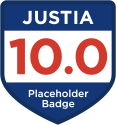
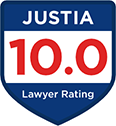
fix: justia badge

diff --git a/dist/jld-newsletter.html b/dist/jld-newsletter.html
@@ -213,7 +213,7 @@
             </tr>
             <tr>
               <td class="justia01" style="padding:0 30px 35px" align="left">
-                <a href="https://onward.justia.com/2019/09/26/collaborative-law-firm-part-vi-the-fax-is-dead-long-live-the-fax/?utm_medium=email&utm_campaign=2019-10&utm_source=directory-newsletter&utm_content=image-onward-post-1" target="_blank" style="color:#00b3e3;text-decoration:none"><img src="https://justatic.com/v/2/emails/images/newsletters/2019/10/featured-news-01.jpg" alt="Collaborative Law Firm Part VI: The Fax is Dead Long Live the Fax" border="0" style="display:block;max-width:100%" width="540"/></a>
+                <a href="https://onward.justia.com/2019/09/26/collaborative-law-firm-part-vi-the-fax-is-dead-long-live-the-fax/?utm_medium=email&utm_campaign=2019-10&utm_source=directory-newsletter&utm_content=image-onward-post-1" target="_blank" style="color:#00b3e3;text-decoration:none"><img src="https://justatic.com/v/3/emails/images/newsletters/2019/10/featured-news-01.jpg" alt="Collaborative Law Firm Part VI: The Fax is Dead Long Live the Fax" border="0" style="display:block;max-width:100%" width="540"/></a>
               </td>
             </tr>
             <tr>
@@ -234,7 +234,7 @@
           <table border="0" cellpadding="0" cellspacing="0" align="center" width="100%" style="max-width:600px;margin:0 auto;border-bottom:1px solid #efefef" bgcolor="#f4f4f4">
             <tr>
               <td style="padding:0" align="center">
-                <a href="https://unicourt.com/pricing/justia?utm_medium=affiliate&utm_campaign=newsletter&utm_source=justia" target="_blank" style="color:#00b3e3;text-decoration:none"><img src="https://justatic.com/v/2/emails/images/newsletters/2019/10/unicort-pricing.png" alt border="0" style="display:block;max-width:100%" width="600"/></a>
+                <a href="https://unicourt.com/pricing/justia?utm_medium=affiliate&utm_campaign=newsletter&utm_source=justia" target="_blank" style="color:#00b3e3;text-decoration:none"><img src="https://justatic.com/v/3/emails/images/newsletters/2019/10/unicort-pricing.png" alt border="0" style="display:block;max-width:100%" width="600"/></a>
               </td>
             </tr>
           </table>
@@ -257,7 +257,7 @@
                 <table border="0" cellpadding="0" cellspacing="0" width="100%">
                   <tr>
                     <td class="justia03" style="padding:0 30px 30px 20px" width="230" align="left">
-                      <a href="https://www.elliottlawgroup.com" target="_blank" style="color:#00b3e3;text-decoration:none"><img src="https://justatic.com/v/2/emails/images/newsletters/2019/10/featured-site-01-thumb.png" alt="Elliott Law Group PLLC" border="0" style="display:block;max-width:100%" width="230"/></a>
+                      <a href="https://www.elliottlawgroup.com" target="_blank" style="color:#00b3e3;text-decoration:none"><img src="https://justatic.com/v/3/emails/images/newsletters/2019/10/featured-site-01-thumb.png" alt="Elliott Law Group PLLC" border="0" style="display:block;max-width:100%" width="230"/></a>
                     </td>
                     <td class="justia04 justia06 justia09" style="padding:0 0 50px" align="left" valign="middle">
                       <p class="justia07" style="margin:0 0 10px;font:22px/1.15 Arial,sans-serif"><b>Elliott Law Group, PLLC</b></p>
@@ -269,7 +269,7 @@
                 <table border="0" cellpadding="0" cellspacing="0" width="100%">
                   <tr>
                     <td class="justia03" style="padding:0 30px 30px 20px" width="230" align="left">
-                      <a href="https://www.attorneymunley.com" target="_blank" style="color:#00b3e3;text-decoration:none"><img src="https://justatic.com/v/2/emails/images/newsletters/2019/10/featured-site-02-thumb.png" alt="Robert J. Munley P.C." border="0" style="display:block;max-width:100%" width="230"/></a>
+                      <a href="https://www.attorneymunley.com" target="_blank" style="color:#00b3e3;text-decoration:none"><img src="https://justatic.com/v/3/emails/images/newsletters/2019/10/featured-site-02-thumb.png" alt="Robert J. Munley P.C." border="0" style="display:block;max-width:100%" width="230"/></a>
                     </td>
                     <td class="justia04 justia06 justia09" style="padding:0 0 50px" align="left" valign="middle">
                       <p class="justia07" style="margin:0 0 10px;font:22px/1.15 Arial,sans-serif"><b>Robert J. Munley, P.C.</b></p>
@@ -281,7 +281,7 @@
                 <table border="0" cellpadding="0" cellspacing="0" width="100%">
                   <tr>
                     <td class="justia03" style="padding:0 30px 30px 20px" width="230" align="left">
-                      <a href="https://www.jmburtonlaw.com" target="_blank" style="color:#00b3e3;text-decoration:none"><img src="https://justatic.com/v/2/emails/images/newsletters/2019/10/featured-site-03-thumb.png" alt="Burton Law Firm PLLC" border="0" style="display:block;max-width:100%" width="230"/></a>
+                      <a href="https://www.jmburtonlaw.com" target="_blank" style="color:#00b3e3;text-decoration:none"><img src="https://justatic.com/v/3/emails/images/newsletters/2019/10/featured-site-03-thumb.png" alt="Burton Law Firm PLLC" border="0" style="display:block;max-width:100%" width="230"/></a>
                     </td>
                     <td class="justia04 justia06 justia09" style="padding:0 0 50px" align="left" valign="middle">
                       <p class="justia07" style="margin:0 0 10px;font:22px/1.15 Arial,sans-serif"><b>Burton Law Firm, PLLC</b></p>
@@ -293,7 +293,7 @@
                 <table border="0" cellpadding="0" cellspacing="0" width="100%">
                   <tr>
                     <td class="justia03" style="padding:0 30px 0 20px" width="230" align="left">
-                      <a href="https://www.azlegalfirm.com" target="_blank" style="color:#00b3e3;text-decoration:none"><img src="https://justatic.com/v/2/emails/images/newsletters/2019/10/featured-site-04-thumb.png" alt="Saavedra Law Firm PLC" border="0" style="display:block;max-width:100%" width="230"/></a>
+                      <a href="https://www.azlegalfirm.com" target="_blank" style="color:#00b3e3;text-decoration:none"><img src="https://justatic.com/v/3/emails/images/newsletters/2019/10/featured-site-04-thumb.png" alt="Saavedra Law Firm PLC" border="0" style="display:block;max-width:100%" width="230"/></a>
                     </td>
                     <td class="justia04 justia06 justia10" style="padding:0 0 20px" align="left" valign="middle">
                       <p class="justia07" style="margin:0 0 10px;font:22px/1.15 Arial,sans-serif"><b>Saavedra Law Firm, PLC</b></p>
@@ -308,7 +308,7 @@
           <table border="0" cellpadding="0" cellspacing="0" align="center" width="100%" style="max-width:600px;margin:0 auto;border-bottom:1px solid #efefef" bgcolor="#000">
             <tr>
               <td style="padding:0" align="center">
-                <a href="https://www.justia.com/marketing/lawyer-directory/?utm_medium=email&utm_campaign=2019-10&utm_source=directory-newsletter&utm_content=banner-premium-memberships-v24" target="_blank" style="color:#00b3e3;text-decoration:none"><img src="https://justatic.com/v/2/emails/images/newsletters/2019/10/premium-profile.gif" alt="Don’t Get Tricked Just Treat Yourself to Premium Placements" border="0" style="display:block;max-width:100%" width="600"/></a>
+                <a href="https://www.justia.com/marketing/lawyer-directory/?utm_medium=email&utm_campaign=2019-10&utm_source=directory-newsletter&utm_content=banner-premium-memberships-v24" target="_blank" style="color:#00b3e3;text-decoration:none"><img src="https://justatic.com/v/3/emails/images/newsletters/2019/10/premium-profile.gif" alt="Don’t Get Tricked Just Treat Yourself to Premium Placements" border="0" style="display:block;max-width:100%" width="600"/></a>
               </td>
             </tr>
             <tr>
@@ -470,7 +470,7 @@
                 <table border="0" cellpadding="0" cellspacing="0" align="center" width="100%">
                   <tr>
                     <td class="justia15" style="border-bottom:1px solid rgba(6,53,122,.1);padding:0 0 20px" width="70" align="left">
-                      <a href="https://lawyers.justia.com/lawyer/1411886?utm_medium=email&utm_source=directory-newsletter&utm_campaign=2019-10&utm_content=image-lawyer-ask-a-lawyer-leaderboard-1" target="_blank" style="color:#00b3e3;text-decoration:none"><img src="https://justatic.com/v/2/emails/images/newsletters/2019/10/leaderboard-photo-01.jpg" alt="Ken Shigley" border="0" style="display:block;max-width:100%" width="70"/></a>
+                      <a href="https://lawyers.justia.com/lawyer/1411886?utm_medium=email&utm_source=directory-newsletter&utm_campaign=2019-10&utm_content=image-lawyer-ask-a-lawyer-leaderboard-1" target="_blank" style="color:#00b3e3;text-decoration:none"><img src="https://justatic.com/v/3/emails/images/newsletters/2019/10/leaderboard-photo-01.jpg" alt="Ken Shigley" border="0" style="display:block;max-width:100%" width="70"/></a>
                     </td>
                     <td class="justia01" style="border-bottom:1px solid rgba(6,53,122,.1);padding:0 40px 20px" align="left">
                       <p class="justia07" style="margin:0 0 7px;font:22px/22px Arial,sans-serif"><a href="https://answers.justia.com/lawyer/1411886/questions/answered?utm_medium=email&utm_source=directory-newsletter&utm_campaign=2019-10&utm_content=name-lawyer-ask-a-lawyer-leaderboard-1" target="_blank" style="text-decoration:none;color:#000">Ken Shigley</a></p>
@@ -480,7 +480,7 @@
                   </tr>
                   <tr>
                     <td class="justia15" style="padding:20px 0;border-bottom:1px solid rgba(6,53,122,.1)" width="70" align="left">
-                      <a href="https://lawyers.justia.com/lawyer/1560557?utm_medium=email&utm_source=directory-newsletter&utm_campaign=2019-10&utm_content=image-lawyer-ask-a-lawyer-leaderboard-2" target="_blank" style="color:#00b3e3;text-decoration:none"><img src="https://justatic.com/v/2/emails/images/newsletters/2019/10/leaderboard-photo-02.jpg" alt="Peter A. Michael" border="0" style="display:block;max-width:100%" width="70"/></a>
+                      <a href="https://lawyers.justia.com/lawyer/1560557?utm_medium=email&utm_source=directory-newsletter&utm_campaign=2019-10&utm_content=image-lawyer-ask-a-lawyer-leaderboard-2" target="_blank" style="color:#00b3e3;text-decoration:none"><img src="https://justatic.com/v/3/emails/images/newsletters/2019/10/leaderboard-photo-02.jpg" alt="Peter A. Michael" border="0" style="display:block;max-width:100%" width="70"/></a>
                     </td>
                     <td class="justia01" style="padding:20px 40px;border-bottom:1px solid rgba(6,53,122,.1)" align="left">
                       <p class="justia07" style="margin:0 0 7px;font:22px/22px Arial,sans-serif"><a href="https://answers.justia.com/lawyer/1560557/questions/answered?utm_medium=email&utm_source=directory-newsletter&utm_campaign=2019-10&utm_content=name-lawyer-ask-a-lawyer-leaderboard-2" target="_blank" style="text-decoration:none;color:#000">Peter A. Michael</a></p>
@@ -490,7 +490,7 @@
                   </tr>
                   <tr>
                     <td class="justia15" style="padding:20px 0;border-bottom:1px solid rgba(6,53,122,.1)" width="70" align="left">
-                      <a href="https://lawyers.justia.com/lawyer/1586011?utm_medium=email&utm_source=directory-newsletter&utm_campaign=2019-10&utm_content=image-lawyer-ask-a-lawyer-leaderboard-3" target="_blank" style="color:#00b3e3;text-decoration:none"><img src="https://justatic.com/v/2/emails/images/newsletters/2019/10/leaderboard-photo-03.jpg" alt="Anitra Walker" border="0" style="display:block;max-width:100%" width="70"/></a>
+                      <a href="https://lawyers.justia.com/lawyer/1586011?utm_medium=email&utm_source=directory-newsletter&utm_campaign=2019-10&utm_content=image-lawyer-ask-a-lawyer-leaderboard-3" target="_blank" style="color:#00b3e3;text-decoration:none"><img src="https://justatic.com/v/3/emails/images/newsletters/2019/10/leaderboard-photo-03.jpg" alt="Anitra Walker" border="0" style="display:block;max-width:100%" width="70"/></a>
                     </td>
                     <td class="justia01" style="padding:20px 40px;border-bottom:1px solid rgba(6,53,122,.1)" align="left">
                       <p class="justia07" style="margin:0 0 7px;font:22px/22px Arial,sans-serif"><a href="https://answers.justia.com/lawyer/1586011/questions/answered?utm_medium=email&utm_source=directory-newsletter&utm_campaign=2019-10&utm_content=name-lawyer-ask-a-lawyer-leaderboard-3" target="_blank" style="text-decoration:none;color:#000">Anitra Walker</a></p>
@@ -500,7 +500,7 @@
                   </tr>
                   <tr>
                     <td class="justia15" style="padding:20px 0;border-bottom:1px solid rgba(6,53,122,.1)" width="70" align="left">
-                      <a href="https://lawyers.justia.com/lawyer/1561140?utm_medium=email&utm_source=directory-newsletter&utm_campaign=2019-10&utm_content=image-lawyer-ask-a-lawyer-leaderboard-4" target="_blank" style="color:#00b3e3;text-decoration:none"><img src="https://justatic.com/v/2/emails/images/newsletters/2019/10/leaderboard-photo-04.jpg" alt="Brian Boeheim" border="0" style="display:block;max-width:100%" width="70"/></a>
+                      <a href="https://lawyers.justia.com/lawyer/1561140?utm_medium=email&utm_source=directory-newsletter&utm_campaign=2019-10&utm_content=image-lawyer-ask-a-lawyer-leaderboard-4" target="_blank" style="color:#00b3e3;text-decoration:none"><img src="https://justatic.com/v/3/emails/images/newsletters/2019/10/leaderboard-photo-04.jpg" alt="Brian Boeheim" border="0" style="display:block;max-width:100%" width="70"/></a>
                     </td>
                     <td class="justia01" style="padding:20px 40px;border-bottom:1px solid rgba(6,53,122,.1)" align="left">
                       <p class="justia07" style="margin:0 0 7px;font:22px/22px Arial,sans-serif"><a href="https://answers.justia.com/lawyer/1561140/questions/answered?utm_medium=email&utm_source=directory-newsletter&utm_campaign=2019-10&utm_content=name-lawyer-ask-a-lawyer-leaderboard-4" target="_blank" style="text-decoration:none;color:#000">Brian Boeheim</a></p>
@@ -510,7 +510,7 @@
                   </tr>
                   <tr>
                     <td class="justia15" style="padding:20px 0;border-bottom:1px solid rgba(6,53,122,.1)" width="70" align="left">
-                      <a href="https://lawyers.justia.com/lawyer/94544?utm_medium=email&utm_source=directory-newsletter&utm_campaign=2019-10&utm_content=image-lawyer-ask-a-lawyer-leaderboard-5" target="_blank" style="color:#00b3e3;text-decoration:none"><img src="https://justatic.com/v/2/emails/images/newsletters/2019/10/leaderboard-photo-05.jpg" alt="Robert John Liskey" border="0" style="display:block;max-width:100%" width="70"/></a>
+                      <a href="https://lawyers.justia.com/lawyer/94544?utm_medium=email&utm_source=directory-newsletter&utm_campaign=2019-10&utm_content=image-lawyer-ask-a-lawyer-leaderboard-5" target="_blank" style="color:#00b3e3;text-decoration:none"><img src="https://justatic.com/v/3/emails/images/newsletters/2019/10/leaderboard-photo-05.jpg" alt="Robert John Liskey" border="0" style="display:block;max-width:100%" width="70"/></a>
                     </td>
                     <td class="justia01" style="padding:20px 40px;border-bottom:1px solid rgba(6,53,122,.1)" align="left">
                       <p class="justia07" style="margin:0 0 7px;font:22px/22px Arial,sans-serif"><a href="https://answers.justia.com/lawyer/94544/questions/answered?utm_medium=email&utm_source=directory-newsletter&utm_campaign=2019-10&utm_content=name-lawyer-ask-a-lawyer-leaderboard-5" target="_blank" style="text-decoration:none;color:#000">Robert John Liskey</a></p>
@@ -644,9 +644,9 @@
                 <table border="0" cellpadding="0" cellspacing="0" align="center" width="292" class="justia15" style="border-bottom:1px solid #f4f4f4;margin:0 auto">
                   <tr>
                     <td style="padding:0 10px 15px 0" width="50%" align="left">
-                      <a href="https://lawyers.justia.com/lawyer/1482916?utm_medium=email&utm_source=directory-newsletter&utm_campaign=2019-10&utm_content=image-justia-lawyer-rating-and-reviews-featured-1" target="_blank" style="text-decoration:none;color:#000"><img src="https://justatic.com/v/2/emails/images/newsletters/2019/10/lawyer-photo-01.jpg" alt="Jonathan Rosenfeld" border="0" style="display:block;max-width:100%" width="125"/></a>
+                      <a href="https://lawyers.justia.com/lawyer/1482916?utm_medium=email&utm_source=directory-newsletter&utm_campaign=2019-10&utm_content=image-justia-lawyer-rating-and-reviews-featured-1" target="_blank" style="text-decoration:none;color:#000"><img src="https://justatic.com/v/3/emails/images/newsletters/2019/10/lawyer-photo-01.jpg" alt="Jonathan Rosenfeld" border="0" style="display:block;max-width:100%" width="125"/></a>
                     </td>
-                    <td style="padding:0 0 15px 10px" width="50%" align="right"><img src="https://justatic.com/v/2/emails/images/newsletters/2019/10/justia-badge.png" alt="Justia Badge" border="0" style="display:block;max-width:100%" /></td>
+                    <td style="padding:0 0 15px 10px" width="50%" align="right"><img src="https://justatic.com/v/3/emails/images/newsletters/2019/10/justia-badge.png" alt="Justia Badge" border="0" style="display:block;max-width:100%" /></td>
                   </tr>
                 </table>
                 <p style="margin:12px 0 6px;font:20px/1.1 Arial,sans-serif"><a href="https://lawyers.justia.com/lawyer/1482916/lawyer-reviews?utm_medium=email&utm_source=directory-newsletter&utm_campaign=2019-10&utm_content=name-justia-lawyer-rating-and-reviews-featured-1" target="_blank" style="text-decoration:none;color:#000">Jonathan Rosenfeld</a></p>
@@ -734,13 +734,13 @@
                 <table border="0" cellpadding="0" cellspacing="0" align="center" width="100%">
                   <tr>
                     <td width="250" style="padding:0 40px 0 0" class="justia04 justia12" valign="top" align="left">
-                      <img src="https://justatic.com/v/2/emails/images/newsletters/2019/10/inside-justia-01.jpg" alt="inside-justia-01.jpg" border="0" style="display:block;max-width:100%" width="250" />
+                      <img src="https://justatic.com/v/3/emails/images/newsletters/2019/10/inside-justia-01.jpg" alt="inside-justia-01.jpg" border="0" style="display:block;max-width:100%" width="250" />
                       <h3 style="font:700 22px/1.1 Arial,sans-serif;margin:15px 0 10px;color:#06357a">Meet Our Team</h3>
                       <p style="margin:0 0 15px;font:18px/1.3 Arial,sans-serif"><strong>Fall Fanatics</strong></p>
                       <p style="font:16px/1.5 Arial,sans-serif;margin:0">It's that time of year again! Hockey season has begun and we'll be rooting for the San Jose Sharks to win the cup. It’s bound to happen eventually, right?!</p>
                     </td>
                     <td width="250" style="padding:0" class="justia04 justia12-horizontal-sides justia14" valign="top" align="left">
-                      <img src="https://justatic.com/v/2/emails/images/newsletters/2019/10/inside-justia-02.jpg" alt="inside-justia-02.jpg" border="0" style="display:block;max-width:100%" width="250" />
+                      <img src="https://justatic.com/v/3/emails/images/newsletters/2019/10/inside-justia-02.jpg" alt="inside-justia-02.jpg" border="0" style="display:block;max-width:100%" width="250" />
                       <h3 style="font:700 22px/1.1 Arial,sans-serif;margin:15px 0 10px;color:#06357a">A Pug’s Tale</h3>
                       <p style="margin:0 0 15px;font:18px/1.3 Arial,sans-serif"><strong>Rio on KTVU</strong></p>
                       <p style="font:16px/1.5 Arial,sans-serif;margin:0">Rio made it on KTVU 2 News when his peeps were in line at the Apple store for the new iPhone! The Hug Pugs are super excited to have their pictures taken with the new Pet Portrait mode ;)</p>
@@ -768,7 +768,7 @@
             </tr>
             <tr>
               <td class="justia01" style="padding:0 30px 50px" align="center">
-                <a href="https://searchengineland.com/mobile-desktop-search-traffic-split-may-have-stabilized-at-roughly-60-40-317091" target="_blank" style="color:#00b3e3;text-decoration:none"><img src="https://justatic.com/v/2/emails/images/newsletters/2019/10/internet-stats-01.png" alt="Share of Online Searches in 2019 (Mobile vs. Desktop)" border="0" style="display:block;max-width:100%" width="400"/></a>
+                <a href="https://searchengineland.com/mobile-desktop-search-traffic-split-may-have-stabilized-at-roughly-60-40-317091" target="_blank" style="color:#00b3e3;text-decoration:none"><img src="https://justatic.com/v/3/emails/images/newsletters/2019/10/internet-stats-01.png" alt="Share of Online Searches in 2019 (Mobile vs. Desktop)" border="0" style="display:block;max-width:100%" width="400"/></a>
               </td>
             </tr>
             <tr>
@@ -780,13 +780,13 @@
           </table>
           <table border="0" cellpadding="0" cellspacing="0" align="center" width="100%" style="max-width:600px;margin:0 auto;border-bottom:1px solid #efefef" bgcolor="#f4f4f4">
             <tr>
-              <td background="https://justatic.com/v/2/emails/images/newsletters/2019/10/boo-tiful-website.png" style="background:#001d4b url(https://justatic.com/v/2/emails/images/newsletters/2019/10/boo-tiful-website.png);background-repeat:no-repeat;background-size:100% auto" bgcolor="#001d4b" width="600" align="center" valign="top">
-                <!--[if gte mso 9]><v:rect xmlns:v="urn:schemas-microsoft-com:vml" fill="true" stroke="false" style="width:600px;border:0;outline:0;"><v:fill type="tile" src="https://justatic.com/v/2/emails/images/newsletters/2019/10/boo-tiful-website.png" color="#001d4b" /><v:textbox style="mso-fit-shape-to-text:true" inset="0,0,0,0"><![endif]-->
+              <td background="https://justatic.com/v/3/emails/images/newsletters/2019/10/boo-tiful-website.png" style="background:#001d4b url(https://justatic.com/v/3/emails/images/newsletters/2019/10/boo-tiful-website.png);background-repeat:no-repeat;background-size:100% auto" bgcolor="#001d4b" width="600" align="center" valign="top">
+                <!--[if gte mso 9]><v:rect xmlns:v="urn:schemas-microsoft-com:vml" fill="true" stroke="false" style="width:600px;border:0;outline:0;"><v:fill type="tile" src="https://justatic.com/v/3/emails/images/newsletters/2019/10/boo-tiful-website.png" color="#001d4b" /><v:textbox style="mso-fit-shape-to-text:true" inset="0,0,0,0"><![endif]-->
                 <div>
                   <table border="0" cellpadding="0" cellspacing="0" align="center" width="100%">
                     <tr>
                       <td style="padding:0" align="center">
-                        <a href="https://www.justia.com/marketing/law-firm-websites/?utm_medium=email&utm_campaign=2019-10&utm_source=directory-newsletter&utm_content=banner-website-marketing-generic-v22" target="_blank" style="color:#00b3e3;text-decoration:none"><img src="https://justatic.com/v/2/emails/images/newsletters/2019/10/boo-tiful-ghost.gif" alt="Don’t Be Scared To Get a New Boo-tiful Website" border="0" style="display:block;max-width:100%" width="600"/></a>
+                        <a href="https://www.justia.com/marketing/law-firm-websites/?utm_medium=email&utm_campaign=2019-10&utm_source=directory-newsletter&utm_content=banner-website-marketing-generic-v22" target="_blank" style="color:#00b3e3;text-decoration:none"><img src="https://justatic.com/v/3/emails/images/newsletters/2019/10/boo-tiful-ghost.gif" alt="Don’t Be Scared To Get a New Boo-tiful Website" border="0" style="display:block;max-width:100%" width="600"/></a>
                       </td>
                     </tr>
                     <tr>

diff --git a/dist/client-newsletter.html b/dist/client-newsletter.html
@@ -187,7 +187,7 @@
             </tr>
             <tr>
               <td class="justia01" style="padding:0 30px 35px" align="left">
-                <a href="https://onward.justia.com/2019/09/26/collaborative-law-firm-part-vi-the-fax-is-dead-long-live-the-fax/?utm_medium=email&utm_campaign=2019-10&utm_source=client-newsletter&utm_content=image-onward-post-1" target="_blank" style="color:#00b3e3;text-decoration:none"><img src="https://justatic.com/v/2/emails/images/newsletters/2019/10/featured-news-01.jpg" alt="Collaborative Law Firm Part VI: The Fax is Dead Long Live the Fax" border="0" style="display:block;max-width:100%" width="540"/></a>
+                <a href="https://onward.justia.com/2019/09/26/collaborative-law-firm-part-vi-the-fax-is-dead-long-live-the-fax/?utm_medium=email&utm_campaign=2019-10&utm_source=client-newsletter&utm_content=image-onward-post-1" target="_blank" style="color:#00b3e3;text-decoration:none"><img src="https://justatic.com/v/3/emails/images/newsletters/2019/10/featured-news-01.jpg" alt="Collaborative Law Firm Part VI: The Fax is Dead Long Live the Fax" border="0" style="display:block;max-width:100%" width="540"/></a>
               </td>
             </tr>
             <tr>
@@ -301,7 +301,7 @@
             </tr>
             <tr>
               <td class="justia01" style="padding:0 30px 50px" align="center">
-                <a href="https://www.elliottlawgroup.com" target="_blank" style="color:#00b3e3;text-decoration:none"><img src="https://justatic.com/v/2/emails/images/newsletters/2019/10/featured-site-01.jpg" alt="Elliott Law Group PLLC" border="0" style="display:block;max-width:100%" width="540"/></a>
+                <a href="https://www.elliottlawgroup.com" target="_blank" style="color:#00b3e3;text-decoration:none"><img src="https://justatic.com/v/3/emails/images/newsletters/2019/10/featured-site-01.jpg" alt="Elliott Law Group PLLC" border="0" style="display:block;max-width:100%" width="540"/></a>
               </td>
             </tr>
           </table>
@@ -369,7 +369,7 @@
             </tr>
             <tr>
               <td class="justia01" style="padding:0 30px 50px" align="center">
-                <a href="https://searchengineland.com/mobile-desktop-search-traffic-split-may-have-stabilized-at-roughly-60-40-317091" target="_blank" style="color:#00b3e3;text-decoration:none"><img src="https://justatic.com/v/2/emails/images/newsletters/2019/10/internet-stats-01.png" alt="Share of Online Searches in 2019 (Mobile vs. Desktop)" border="0" style="display:block;max-width:100%" width="400"/></a>
+                <a href="https://searchengineland.com/mobile-desktop-search-traffic-split-may-have-stabilized-at-roughly-60-40-317091" target="_blank" style="color:#00b3e3;text-decoration:none"><img src="https://justatic.com/v/3/emails/images/newsletters/2019/10/internet-stats-01.png" alt="Share of Online Searches in 2019 (Mobile vs. Desktop)" border="0" style="display:block;max-width:100%" width="400"/></a>
               </td>
             </tr>
             <tr>
@@ -395,13 +395,13 @@
                 <table border="0" cellpadding="0" cellspacing="0" align="center" width="100%">
                   <tr>
                     <td width="250" style="padding:0 40px 0 0" class="justia04 justia09" valign="top" align="left">
-                      <a href="https://www.foxnews.com/us/jeffrey-epstein-pedophiles-prison-hell" target="_blank" style="color:#00b3e3;text-decoration:none"><img src="https://justatic.com/v/2/emails/images/newsletters/2019/10/clients-news-logo-01.png" alt="clients-news-logo-01.png" border="0" style="display:block;max-width:100%" width="250"/></a>
+                      <a href="https://www.foxnews.com/us/jeffrey-epstein-pedophiles-prison-hell" target="_blank" style="color:#00b3e3;text-decoration:none"><img src="https://justatic.com/v/3/emails/images/newsletters/2019/10/clients-news-logo-01.png" alt="clients-news-logo-01.png" border="0" style="display:block;max-width:100%" width="250"/></a>
                       <p style="font:16px/1.5 Arial,sans-serif;margin:25px 0 0">
                         <strong>Zachary Margulis-Ohnuma</strong> was quoted by Fox News regarding Jeffrey Epstein's death<br /><b><a href="https://www.foxnews.com/us/jeffrey-epstein-pedophiles-prison-hell" target="_blank" style="text-decoration:none;color:#000">Read More ›</a></b>
                       </p>
                     </td>
                     <td width="250" style="padding:0" class="justia04 justia09-horizontal-sides justia11" valign="top" align="left">
-                      <a href="https://www.foxbusiness.com/features/what-does-felicity-huffmans-sentencing-mean-for-other-parents-accused" target="_blank" style="color:#00b3e3;text-decoration:none"><img src="https://justatic.com/v/2/emails/images/newsletters/2019/10/clients-news-logo-02.png" alt="clients-news-logo-02.png" border="0" style="display:block;max-width:100%" width="250"/></a>
+                      <a href="https://www.foxbusiness.com/features/what-does-felicity-huffmans-sentencing-mean-for-other-parents-accused" target="_blank" style="color:#00b3e3;text-decoration:none"><img src="https://justatic.com/v/3/emails/images/newsletters/2019/10/clients-news-logo-02.png" alt="clients-news-logo-02.png" border="0" style="display:block;max-width:100%" width="250"/></a>
                       <p style="font:16px/1.5 Arial,sans-serif;margin:25px 0 0">
                         Jeremy Saland of <strong>Crotty Saland, PC</strong> was quoted by Fox Business regarding Felicity Huffman's sentencing <b><a href="https://www.foxbusiness.com/features/what-does-felicity-huffmans-sentencing-mean-for-other-parents-accused" target="_blank" style="text-decoration:none;color:#000">Read More ›</a></b>
                       </p>
@@ -499,13 +499,13 @@
                 <table border="0" cellpadding="0" cellspacing="0" align="center" width="100%">
                   <tr>
                     <td width="250" style="padding:0 40px 0 0" class="justia04 justia09" valign="top" align="left">
-                      <img src="https://justatic.com/v/2/emails/images/newsletters/2019/10/inside-justia-01.jpg" alt="inside-justia-01.jpg" border="0" style="display:block;max-width:100%" width="250" />
+                      <img src="https://justatic.com/v/3/emails/images/newsletters/2019/10/inside-justia-01.jpg" alt="inside-justia-01.jpg" border="0" style="display:block;max-width:100%" width="250" />
                       <h3 style="font:700 22px/1.1 Arial,sans-serif;margin:15px 0 10px;color:#06357a">Meet Our Team</h3>
                       <p style="margin:0 0 15px;font:18px/1.3 Arial,sans-serif"><strong>Fall Fanatics</strong></p>
                       <p style="font:16px/1.5 Arial,sans-serif;margin:0">It's that time of year again! Hockey season has begun and we'll be rooting for the San Jose Sharks to win the cup. It’s bound to happen eventually, right?!</p>
                     </td>
                     <td width="250" style="padding:0" class="justia04 justia09-horizontal-sides justia11" valign="top" align="left">
-                      <img src="https://justatic.com/v/2/emails/images/newsletters/2019/10/inside-justia-02.jpg" alt="inside-justia-02.jpg" border="0" style="display:block;max-width:100%" width="250" />
+                      <img src="https://justatic.com/v/3/emails/images/newsletters/2019/10/inside-justia-02.jpg" alt="inside-justia-02.jpg" border="0" style="display:block;max-width:100%" width="250" />
                       <h3 style="font:700 22px/1.1 Arial,sans-serif;margin:15px 0 10px;color:#06357a">A Pug’s Tale</h3>
                       <p style="margin:0 0 15px;font:18px/1.3 Arial,sans-serif"><strong>Rio on KTVU</strong></p>
                       <p style="font:16px/1.5 Arial,sans-serif;margin:0">Rio made it on KTVU 2 News when his peeps were in line at the Apple store for the new iPhone! The Hug Pugs are super excited to have their pictures taken with the new Pet Portrait mode ;)</p>
@@ -518,7 +518,7 @@
           <table border="0" cellpadding="0" cellspacing="0" align="center" width="100%" style="max-width:600px;margin:0 auto;border-bottom:1px solid #efefef" bgcolor="#fff">
             <tr>
               <td style="padding:0" align="center">
-                <a href="https://j.jamesreferrals.com/justia-book?utm_medium=email&utm_campaign=2019-10&utm_source=client-newsletter" target="_blank" style="color:#00b3e3;text-decoration:none"><img src="https://justatic.com/v/2/emails/images/newsletters/2019/10/obtain-referrals-book.png" alt border="0" style="display:block;max-width:100%" width="600"/></a>
+                <a href="https://j.jamesreferrals.com/justia-book?utm_medium=email&utm_campaign=2019-10&utm_source=client-newsletter" target="_blank" style="color:#00b3e3;text-decoration:none"><img src="https://justatic.com/v/3/emails/images/newsletters/2019/10/obtain-referrals-book.png" alt border="0" style="display:block;max-width:100%" width="600"/></a>
               </td>
             </tr>
           </table>
